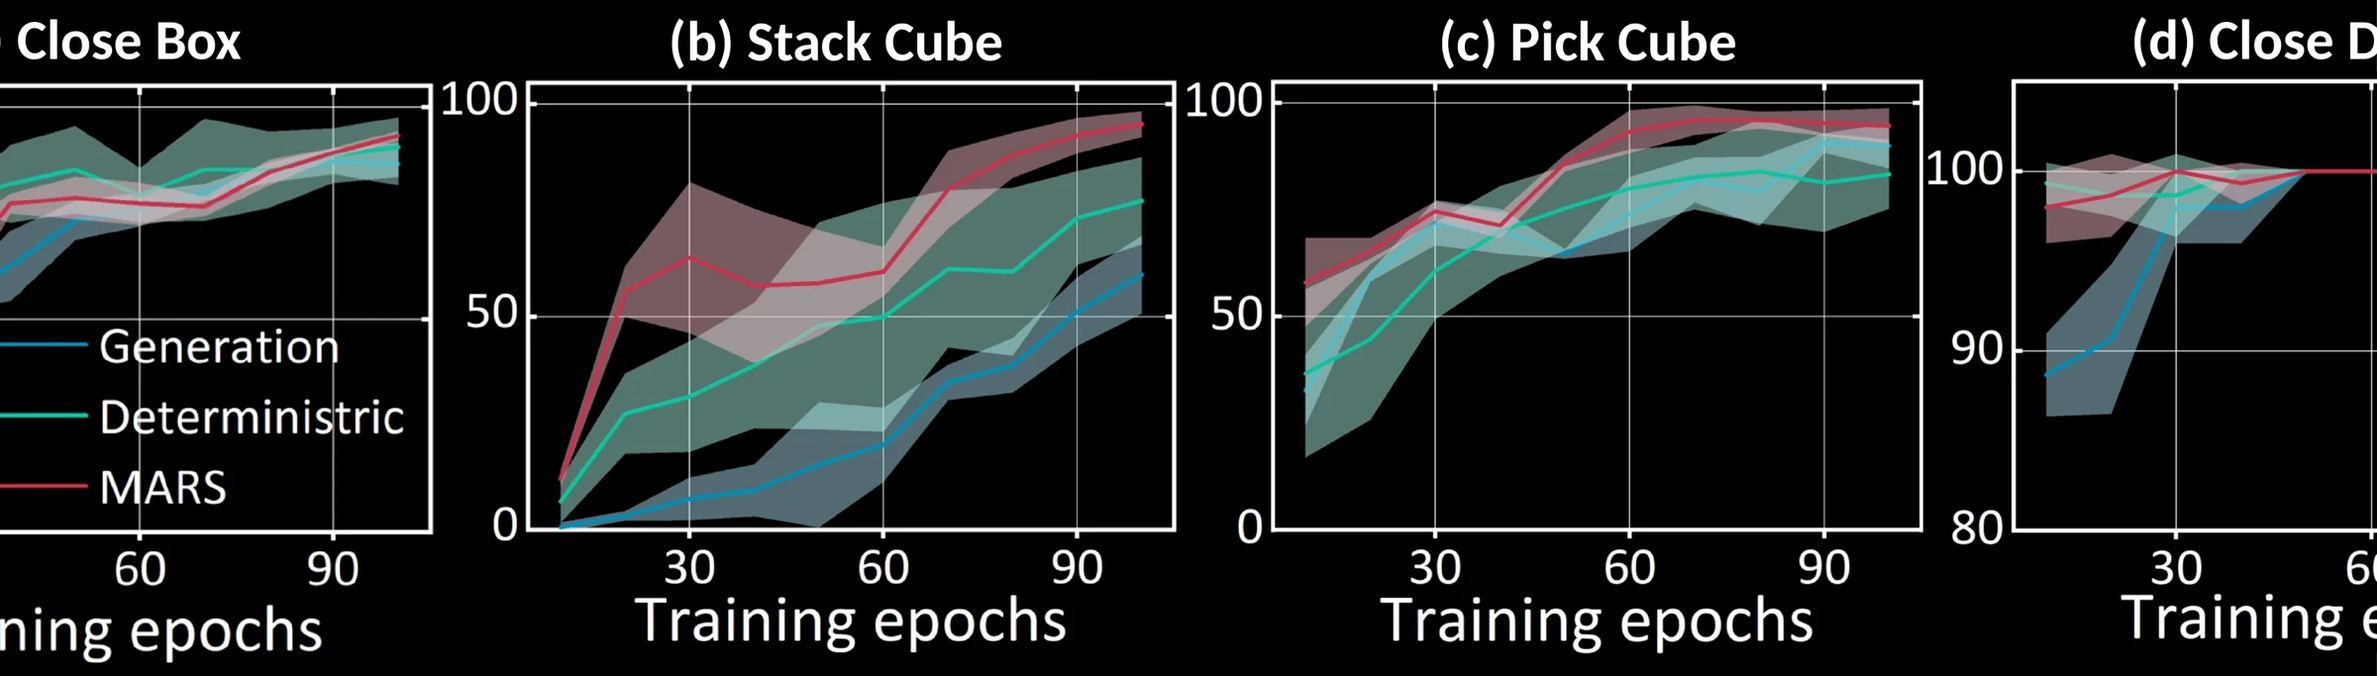
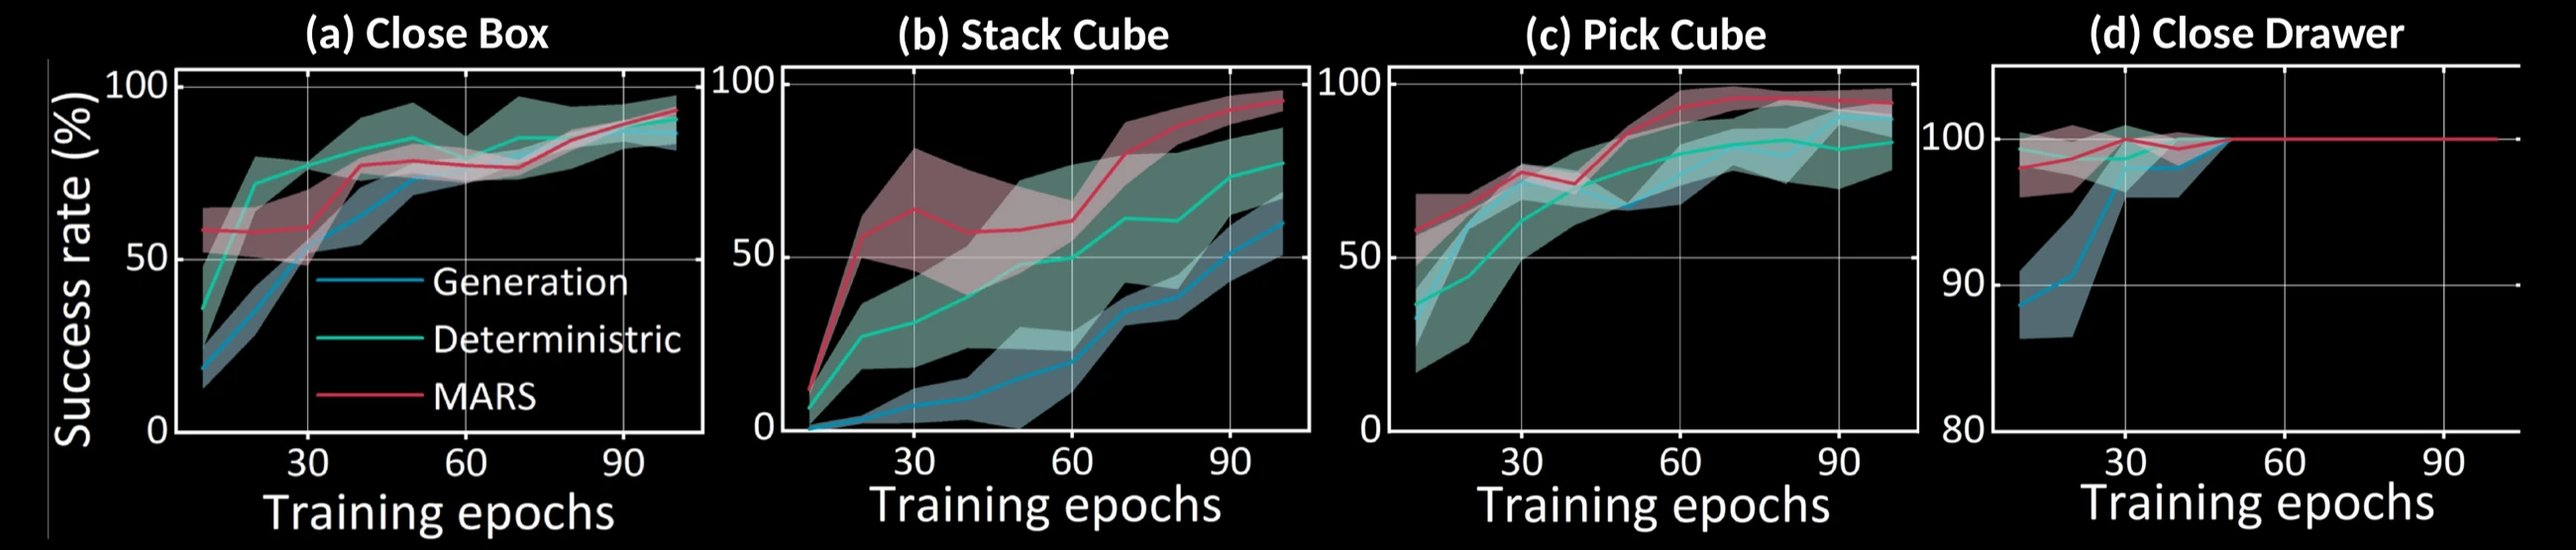
Figures truly merge into page (screen blend) + fix benchmark sizing
- mix-blend-mode: screen on all non-card figures so pure-black background
  dissolves into the page bg exactly (much-ado-about-noising style); no more
  visible figure rectangle regardless of the warm #0F0F11 page colour
- Fixed clipped unimodal benchmark: widened the PPTX canvas via python-pptx
  and shifted slide-6 content so all four panels (Close Box / Stack Cube /
  Pick Cube / Close Drawer) render complete, then re-cropped
- Constrained the tall multimodal benchmark to a centered 660px column
  (.media-block--narrow) so it no longer dominates the section

diff --git a/styles/components.css b/styles/components.css
@@ -760,6 +760,20 @@ body > * { position: relative; z-index: 1; }
   display: block;
 }
 
+/* v10 — black figures merge into the page via screen blend.
+   Pure black (#000) contributes nothing under "screen", so it shows
+   the page background exactly; bright content composites on top.
+   This makes the figure black === page black on ANY bg value. */
+.media-block:not(.media-block--card) .media-block__chrome img {
+  mix-blend-mode: screen;
+}
+
+/* Narrow / portrait figures shouldn't span full width */
+.media-block--narrow .media-block__chrome {
+  max-width: 660px;
+  margin-inline: auto;
+}
+
 .media-block__meta {
   margin-top: var(--s-4);
   display: grid;

diff --git a/index.html b/index.html
@@ -611,7 +611,7 @@
       action diversity that strict regression discards.
     </p>
 
-    <figure class="media-block" data-reveal>
+    <figure class="media-block media-block--narrow" data-reveal>
       <div class="media-block__chrome">
         <picture>
           <source srcset="assets/images/multimodal_sim.webp" type="image/webp" />
